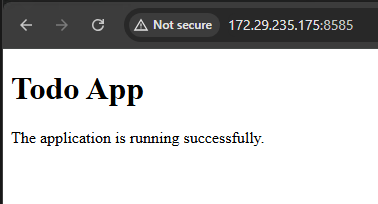
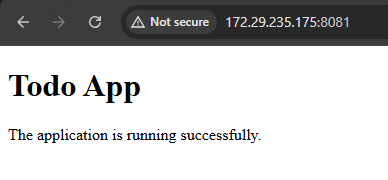
updated readme for exercise1.8

diff --git a/todo_app/README.md b/todo_app/README.md
@@ -1,15 +1,23 @@
 # Todo App
 
-A simple web server built with Python and FastAPI for Exercise (1.2, 1.5) of the University of Helsinki's DevOps with Kubernetes course.
+A simple web server built with Python and FastAPI for the University of Helsinki's **DevOps with Kubernetes 2026** course.
 
-The application serves a simple HTML page at `GET /` and prints `Server started in port NNNN` when it starts. The listening port is configurable through the `PORT` environment variable and defaults to `8080`.
+## Description
+
+The application serves a simple HTML page at `GET /` and prints `Server started in port NNNN` when it starts.
+
+The listening port is configurable through the `PORT` environment variable and defaults to `8080`.
+
+The application is deployed to Kubernetes and exposed externally using **Ingress** and the **Traefik Ingress Controller**.
 
 ## Application
 
-- **`app.py`** - Starts the FastAPI web server and exposes the `GET /` endpoint.
-- **`requirements.txt`** - Lists the Python dependencies.
-- **`Dockerfile`** - Builds the application image.
-- **`k8s/deployment.yml`** - Defines the Kubernetes Deployment.
+- `app.py` - Starts the FastAPI web server and exposes the `GET /` endpoint.
+- `requirements.txt` - Lists the Python dependencies.
+- `Dockerfile` - Builds the application image.
+- `k8s/deployment.yml` - Defines the Kubernetes Deployment.
+- `k8s/service.yml` - Defines the internal ClusterIP Service.
+- `k8s/ingress.yml` - Defines the Ingress routing rules.
 
 The root endpoint (`GET /`) returns an HTML page confirming that the Todo application is running.
 
@@ -31,56 +39,87 @@ Import the image into your k3d cluster. Replace `YOUR_CLUSTER_NAME` with your cl
 k3d image import todo-app:1.1 -c YOUR_CLUSTER_NAME
 ```
 
-Apply the Kubernetes Deployment:
+Apply the Kubernetes resources:
 
 ```bash
 kubectl apply -f todo_app/k8s/deployment.yml
+kubectl apply -f todo_app/k8s/service.yml
+kubectl apply -f todo_app/k8s/ingress.yml
 ```
 
+## Kubernetes networking
 
-## Verify the application
+The application is exposed externally through an Ingress resource managed by the Traefik Ingress Controller available in the k3d cluster.
 
-Check the application logs:
+The application uses the following networking configuration:
 
-```bash
-kubectl logs deployment/todo-app
-```
+| Component | Type | Port |
+|---|---|---:|
+| Container | FastAPI / Uvicorn | 8585 |
+| Service | ClusterIP | 85 |
+| Service target port | Container | 8585 |
+| Ingress Controller | Traefik HTTP entrypoint | 80 |
+| k3d host port | External access | 8081 |
 
-Expected startup message:
+The traffic flow is:
 
 ```text
-Server started in port 8585
+Browser
+   |
+   v
+k3d Load Balancer (host port 8081)
+   |
+   v
+Traefik Ingress Controller (port 80)
+   |
+   v
+Todo App Ingress
+   |
+   v
+todo-app-svc (port 85)
+   |
+   v
+Todo App Pod (port 8585)
 ```
 
-The Deployment sets `PORT=8585`, so the application listens on port `8585` inside the container.
+The Ingress does not specify a hostname, allowing requests to be routed without requiring a custom hostname or hosts-file entry.
 
-## Access the application using port-forwarding
+The k3d cluster maps host port `8081` to port `80` on its load balancer.
 
-Forward local host port `8585` to port `8585` in the Kubernetes Deployment:
+## Access the application
 
-```bash
-kubectl port-forward --address 0.0.0.0 deployment/todo-app 8585:8585
+Open the following URL in your browser:
+
+```text
+http://localhost:8081/
 ```
 
-Keep this command running while accessing the application. Open the following URL in your browser:
+If accessing the application from another machine, use the IP address of the host running k3d:
 
-<http://localhost:8585/>
+```text
+http://<host-ip>:8081/
+```
 
-The browser request reaches the application through `kubectl port-forward`.
+The browser request is routed through Traefik and the Kubernetes Ingress to the Todo App Service and Pod.
 
-### Screenshot
-
-![Todo App running in the browser](screenshots/todo-app.png)
 
 ## Change the listening port
 
-The application reads the `PORT` environment variable at startup. To change the port, update the `PORT` value and `containerPort` in `todo_app/k8s/deployment.yml` to the same port, then apply the updated Deployment:
+The application reads the `PORT` environment variable at startup.
 
-```bash
-kubectl apply -f todo_app/k8s/deployment.yml
-kubectl rollout status deployment/todo-app
-```
-
-Update the port-forward command accordingly if the container port changes.
+To change the port, update the `PORT` environment variable and `containerPort` in `k8s/deployment.yml`, and update the Service `targetPort` in `k8s/service.yml` accordingly.
 
 No image rebuild is needed to change the listening port because it is configured through an environment variable.
+
+## Screenshot
+
+![Todo App running in the browser through Kubernetes Ingress](screenshots/todo-app.png)
+
+## Exercises
+
+- Course: DevOps with Kubernetes 2026
+- Exercise 1.2
+- Exercise 1.4
+- Exercise 1.5
+- Exercise 1.6
+- Exercise 1.8

diff --git a/README.md b/README.md
@@ -15,5 +15,6 @@ DevOps with Kubernetes course.
 | [1.5](https://github.com/sina-zare/devops-with-kubernetes-2026/tree/1.5/todo_app) | [Todo app](todo_app/) | Same todo app for project 1.4, now returns a simple HTTP page at `GET /` and accessible through kubectl port-forward.|
 | [1.6](https://github.com/sina-zare/devops-with-kubernetes-2026/tree/1.6/todo_app) | [Todo app](todo_app/) | Same todo app for project 1.5, now configured NodePort Service to access the project|
 | [1.7](https://github.com/sina-zare/devops-with-kubernetes-2026/tree/1.7/log_output) | [Log output](log_output/) | log_output app that now has an http endpoint at `/` and made accessible to browser via ingress and ClusterIP service manifests|
+| [1.8](https://github.com/sina-zare/devops-with-kubernetes-2026/tree/1.8/todo_app) | [Todo app](todo_app/) | Todo app that now has an http endpoint at `/` and made accessible to browser via ingress and ClusterIP service manifests|
 
 Each exercise is documented in its application's README. GitHub Releases are used to identify the completed state of each exercise.
